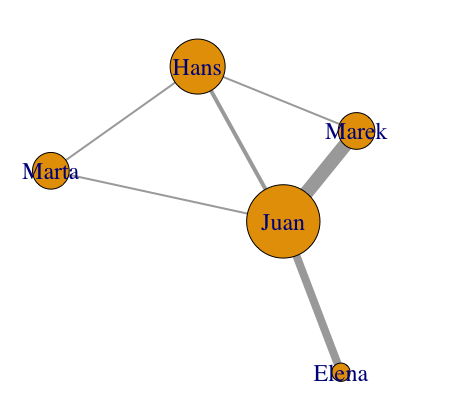
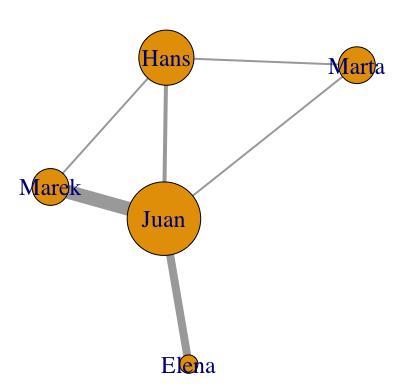
update

diff --git a/contenido.md b/contenido.md
@@ -73,17 +73,17 @@ Lista de aristas, matrices, lista de adyacencia, ...
 
 | |Juan|Hans|Elena|Marta|Marek|
 |--|--|------|----|-----|----|
-|**Juan**|0|1|1|1|3|
+|**Juan**|0|1|1|1|1|
 |**Hans**|1|0|0|1|1|
 |**Elena**|1|0|0|0|0|
 |**Marta**|1|1|0|0|0|
-|**Marek**|3|1|0|0|0|
+|**Marek**|1|1|0|0|0|
 
 [...]
 
 # Formatos
 
-- ```CSV```
+- ```CSV```. Lista de aristas en CSV:
 
 ```
 source,target,lengua,weight
@@ -97,7 +97,7 @@ Hans,Marta,eng,1
 Hans,Marek,de,1
 ```
 
-- ```gexf```
+- ```gexf``` (XML)
 
 ```xml
 [...]
@@ -126,15 +126,28 @@ Hans,Marek,de,1
 
 # Visualización. Algoritmos
 
-- Force Atlas
-- Fruchteman Reingold
-- ...
+Misma red, distinta visualización
+
+![](images/network_viz.png)
+
+Red bipartita
+
+![](images/terms_bipartita_layout.png)
+
+
+## Algoritmos para dibujar el grafo. 
+
+![](images/network_layouts.png)
+
+- Clásicos en Gephi: _Force Atlas 2_, _Fruchterman Reingold_,...
 
 # Métricas (centralidad)
 
-- Degree centrality: nº de conexiones
-- Betweenness centrality, nodos puente 
-- Eigenvector centrality, nodos conectados a nodos
+![](images/terms_metrics.png)
+
+- _Degree centrality_: nº de conexiones
+- _Betweenness centrality_, nodos puente 
+- _Eigenvector centrality_, nodos conectados a nodos
 
 > Algee-Hewitt, Mark (2017): “Distributed Character: Quantitative Models of the English Stage, 1550–1900”, New Literary History, 48, 4, pp. 751-782, <https://doi.org/10.1353/nlh.2017.0038>.
 
